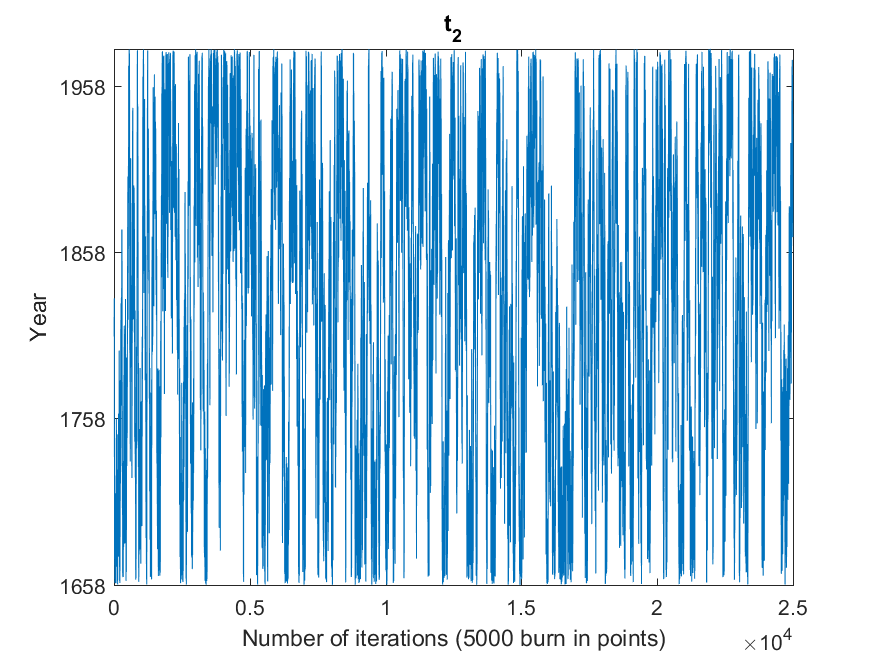
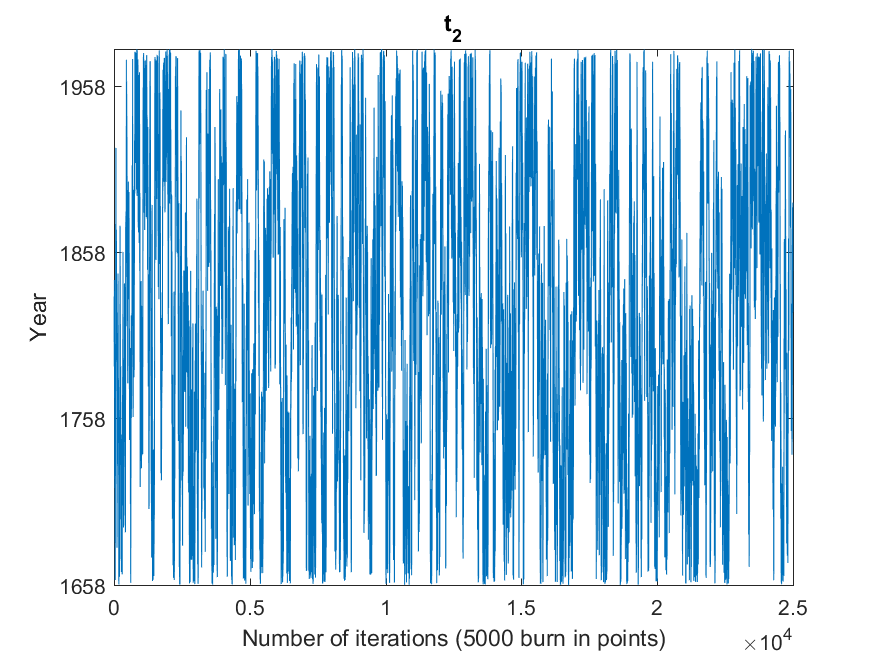
update with d e pngs

diff --git a/assignment3.m b/assignment3.m
@@ -6,10 +6,10 @@ ylabel("Number")
 title("\tau")
 %% Parameters
 close all;
-psi = 1;
-bp = 5;
+psi = 3;
+bp = 4;
 d = bp + 1;
-rho = 0.1;
+rho = 0.01;
 %% Hybrid MCMC
 
 N = 20000;
@@ -63,7 +63,7 @@ for i = 1:M-1
 end
 
 tau = ceil(mean(t(:,burnIn:M),2));
-%% figures for report
+%% figures for report. (b)(c)
 % lambda
 figure
 length = size(lambda,1);
@@ -74,7 +74,7 @@ for i = 1:length
     title(str) 
 end
 xlabel("\lambda")
-savename = sprintf('lambda_Breakpoints%d.png',bp);
+savename = sprintf('lambda_Breakpoints%drho%.3fpsi3.png',bp,rho);
 saveas(gcf,char(savename))
 % theta
 figure
@@ -82,7 +82,7 @@ histfit(theta(burnIn:end),50,'gamma');
 xlabel("\theta")
 ylabel("Numbers")
 title("\theta Distribution")
-savename = sprintf("theta_Breakpoints%d.png",bp);
+savename = sprintf("theta_Breakpoints%drho%.3fpsi3.png",bp,rho);
 saveas(gcf,char(savename))
 % t
 figure
@@ -95,7 +95,7 @@ for i = 2:length-1
     title(str)
 end
 xlabel("Number of iterations (5000 burn in points)")
-savename = sprintf("t_Breakpoints%d.png",bp);
+savename = sprintf("t_Breakpoints%drho%.3fpsi3.png",bp,rho);
 saveas(gcf,char(savename))
 % t vary
 figure
@@ -110,9 +110,21 @@ for i = 2:length-1
     title(str)
 end
 xlabel("Number of iterations (5000 burn in points)")
-savename = sprintf("t_Breakpoints%d.png",bp);
+savename = sprintf("t_Breakpoints%drho%.3fpsi3.png",bp,rho);
 saveas(gcf,char(savename))
-%
+% t distribution
+figure
+for i = 2:size(t,1)-1      
+    hold on
+    histogram(t(i,burnIn:end),40)
+    str = sprintf('t distribution with %d breakpoints',bp);
+    title(str)
+end
+xlabel("Year")
+ylabel("Number")
+savename = sprintf("tdistribution_Breakpoints%drho%.3fpsi3.png",bp,rho);
+saveas(gcf,char(savename))
+% t in whole
 figure
 hold on
 h = histogram(T,50);
@@ -123,5 +135,5 @@ end
 xlabel("Year")
 ylabel("Numbers")
 title('t result')
-savename = sprintf("tshow_Breakpoints%d.png",bp);
+savename = sprintf("tshow_Breakpoints%drho%.3fpsi3.png",bp,rho);
 saveas(gcf,char(savename))
